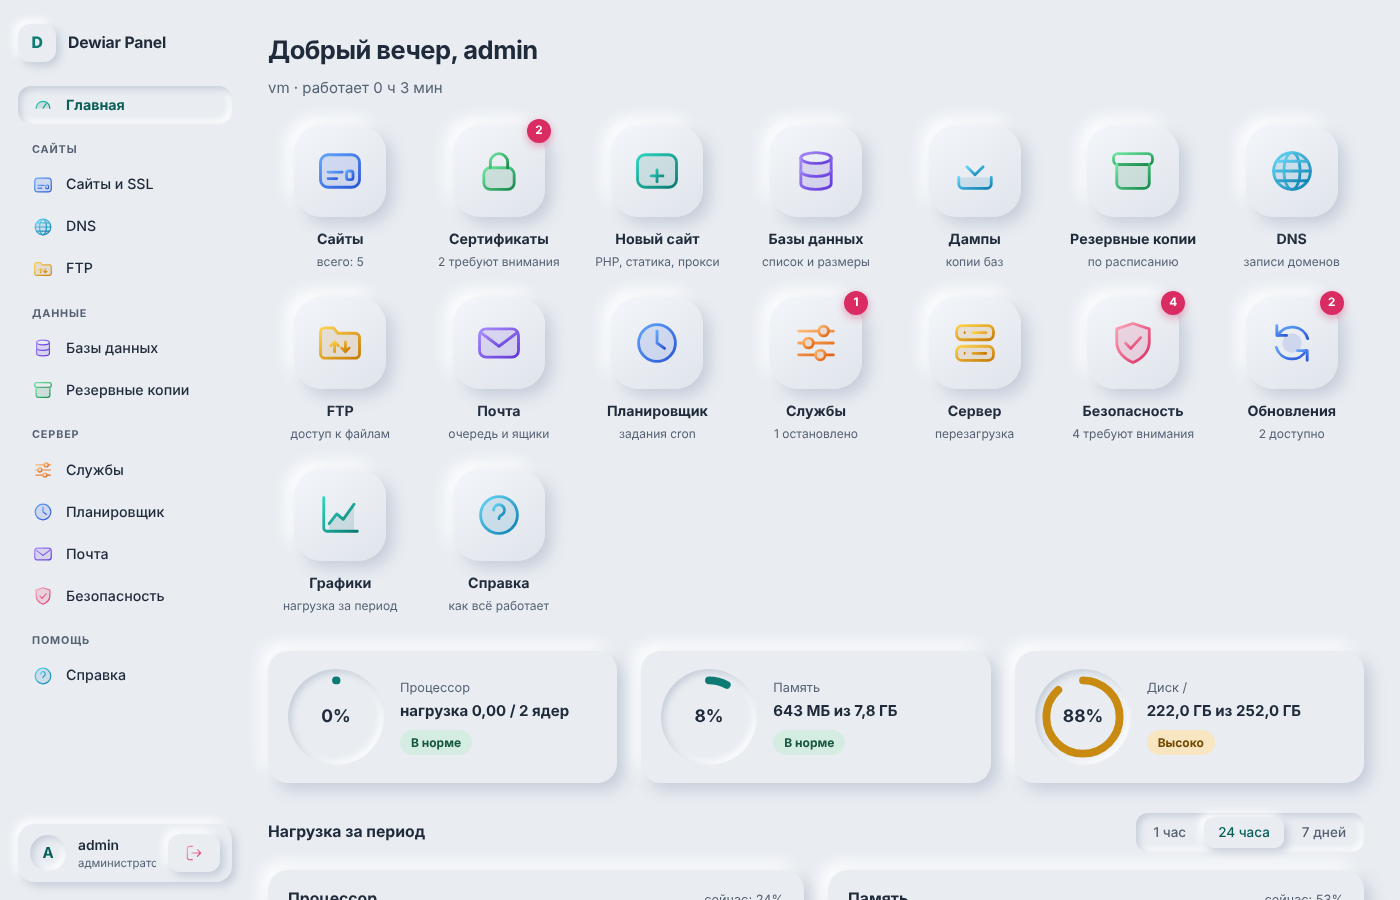
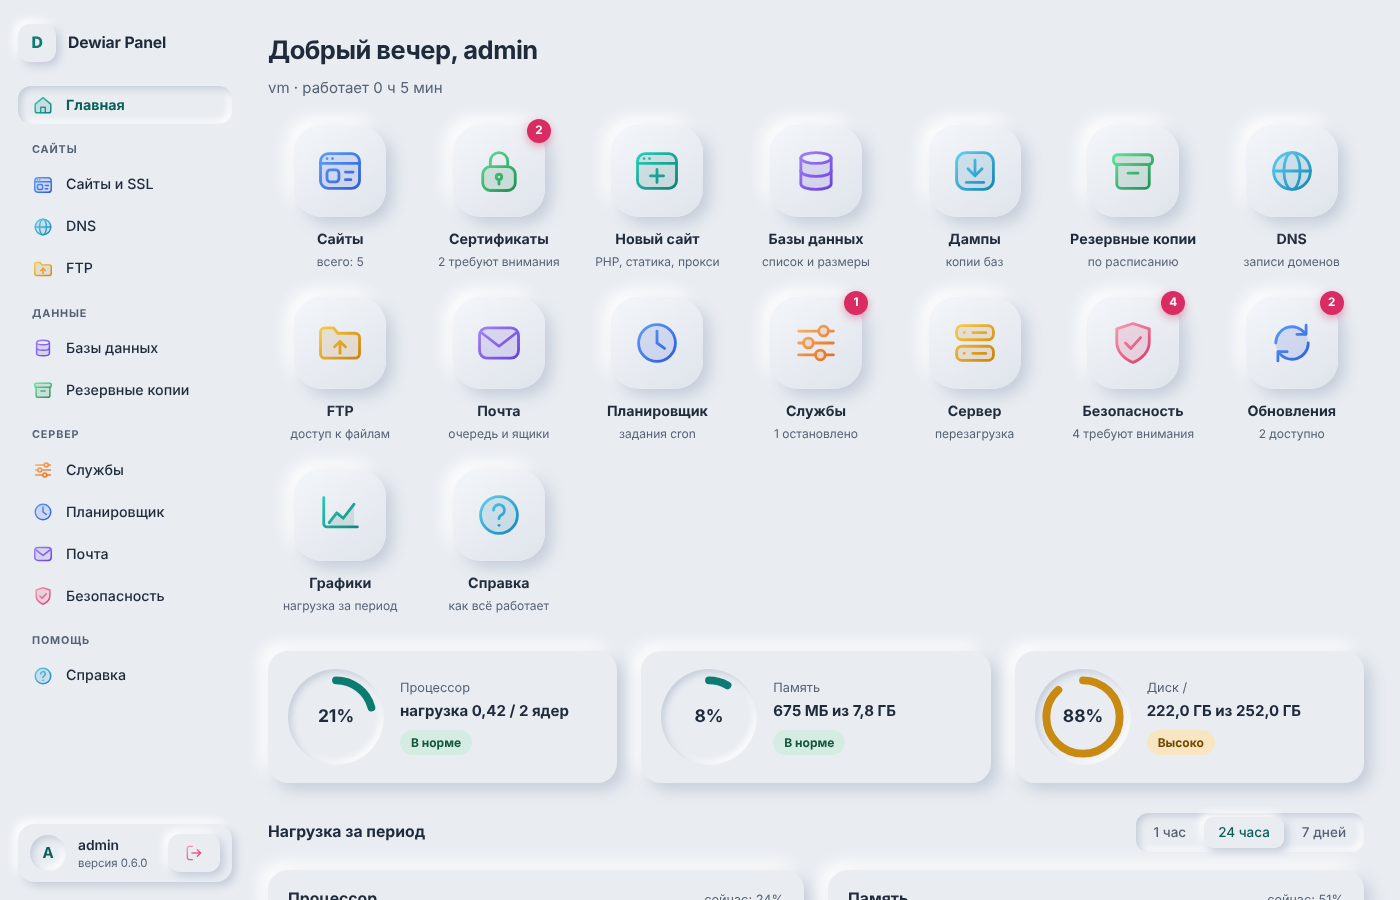
Иконки: перерисован набор, исправлена отрисовка прямых линий
Градиент контура считался от размеров каждой линии, поэтому строго
горизонтальные и вертикальные штрихи не отображались и иконки
выглядели незавершёнными. Градиент переведён в координаты иконки.

Claude-Session: https://claude.ai/code/session_01ApnMYWMBPuBUjCWb2Eobmj

diff --git a/app/lib/icons.php b/app/lib/icons.php
@@ -6,24 +6,25 @@ declare(strict_types=1);
  * Каждая иконка: [заливка-подложка, контур]. Контур рисуется градиентом оттенка, подложка — тем же оттенком с прозрачностью.
  */
 const ICONS = [
-    'gauge' => ['<path d="M9 31a15 15 0 1 1 30 0z"/>', '<path d="M9 31a15 15 0 1 1 30 0"/><path d="M24 31l7-10"/><path d="M6 37h36"/>'],
-    'sites' => ['<rect x="6" y="9" width="36" height="30" rx="7"/>', '<rect x="6" y="9" width="36" height="30" rx="7"/><path d="M6 18h36"/><path d="M13 25h13M13 31h8"/><rect x="30" y="24" width="6" height="8" rx="2"/>'],
-    'newsite' => ['<rect x="6" y="9" width="36" height="30" rx="7"/>', '<rect x="6" y="9" width="36" height="30" rx="7"/><path d="M6 18h36"/><path d="M24 23v11M18.5 28.5h11"/>'],
+    'home' => ['<path d="M7 22L24 8l17 14v15a4 4 0 0 1-4 4H11a4 4 0 0 1-4-4z"/>', '<path d="M7 22L24 8l17 14v15a4 4 0 0 1-4 4H11a4 4 0 0 1-4-4z"/><path d="M19 41V29h10v12"/>'],
+    'gauge' => ['<circle cx="24" cy="26" r="16"/>', '<path d="M12.7 37.300a16 16 0 1 1 22.600 0"/><path d="M24 26l7-8"/><path d="M24 26h.1"/>'],
+    'sites' => ['<rect x="6" y="8" width="36" height="32" rx="7"/>', '<rect x="6" y="8" width="36" height="32" rx="7"/><path d="M6 17h36"/><path d="M12 12.500h.1M17 12.500h.1"/><rect x="12" y="23" width="11" height="11" rx="3"/><path d="M29 25h7M29 32h5"/>'],
+    'newsite' => ['<rect x="6" y="8" width="36" height="32" rx="7"/>', '<rect x="6" y="8" width="36" height="32" rx="7"/><path d="M6 17h36"/><path d="M12 12.500h.1M17 12.500h.1"/><path d="M24 22.500v12M18 28.500h12"/>'],
     'shield' => ['<path d="M24 6l15 5v12c0 9-7 16-15 19-8-3-15-10-15-19V11z"/>', '<path d="M24 6l15 5v12c0 9-7 16-15 19-8-3-15-10-15-19V11z"/><path d="M17 24l5 5 9-10"/>'],
-    'lock' => ['<rect x="10" y="21" width="28" height="20" rx="6"/>', '<rect x="10" y="21" width="28" height="20" rx="6"/><path d="M16 21v-5a8 8 0 0 1 16 0v5"/><path d="M24 29v5"/>'],
-    'db' => ['<path d="M10 12v24c0 2.8 6.3 5 14 5s14-2.2 14-5V12c0 2.8-6.3 5-14 5s-14-2.2-14-5z"/>', '<ellipse cx="24" cy="12" rx="14" ry="5"/><path d="M10 12v24c0 2.8 6.3 5 14 5s14-2.2 14-5V12"/><path d="M10 24c0 2.8 6.3 5 14 5s14-2.2 14-5"/>'],
-    'dump' => ['<path d="M9 30v6a4 4 0 0 0 4 4h22a4 4 0 0 0 4-4v-6z"/>', '<path d="M24 8v19"/><path d="M16.5 20l7.5 7.5 7.5-7.5"/><path d="M9 30v6a4 4 0 0 0 4 4h22a4 4 0 0 0 4-4v-6"/>'],
-    'services' => ['<circle cx="31" cy="13" r="4.5"/><circle cx="17" cy="24" r="4.5"/><circle cx="28" cy="35" r="4.5"/>', '<path d="M8 13h18.5M35.5 13H40M8 24h4.5M21.5 24H40M8 35h15.5M32.5 35H40"/><circle cx="31" cy="13" r="4.5"/><circle cx="17" cy="24" r="4.5"/><circle cx="28" cy="35" r="4.5"/>'],
-    'server' => ['<rect x="7" y="8" width="34" height="13" rx="5"/><rect x="7" y="27" width="34" height="13" rx="5"/>', '<rect x="7" y="8" width="34" height="13" rx="5"/><rect x="7" y="27" width="34" height="13" rx="5"/><path d="M14 14.5h.1M14 33.5h.1"/><path d="M22 14.5h12M22 33.5h12"/>'],
-    'chart' => ['<path d="M14 32l7-9 6 5 10-14v24H14z"/>', '<path d="M9 8v28a3 3 0 0 0 3 3h28"/><path d="M14 32l7-9 6 5 10-14"/>'],
-    'update' => ['<circle cx="24" cy="24" r="9"/>', '<path d="M38.5 20A15 15 0 0 0 11 17"/><path d="M10 8v9h9"/><path d="M9.5 28A15 15 0 0 0 37 31"/><path d="M38 40v-9h-9"/>'],
-    'backup' => ['<rect x="8" y="18" width="32" height="22" rx="5"/>', '<rect x="6" y="8" width="36" height="10" rx="4"/><path d="M9 18v17a5 5 0 0 0 5 5h20a5 5 0 0 0 5-5V18"/><path d="M19 27h10"/>'],
+    'lock' => ['<rect x="9" y="20" width="30" height="22" rx="7"/>', '<rect x="9" y="20" width="30" height="22" rx="7"/><path d="M16 20v-5a8 8 0 0 1 16 0v5"/><circle cx="24" cy="29.500" r="2.500"/><path d="M24 32v4"/>'],
+    'db' => ['<path d="M10 12v24c0 2.800 6.300 5 14 5s14-2.200 14-5V12c0 2.800-6.300 5-14 5s-14-2.200-14-5z"/>', '<ellipse cx="24" cy="12" rx="14" ry="5"/><path d="M10 12v24c0 2.800 6.300 5 14 5s14-2.200 14-5V12"/><path d="M10 24c0 2.800 6.300 5 14 5s14-2.200 14-5"/>'],
+    'dump' => ['<rect x="7" y="7" width="34" height="34" rx="9"/>', '<rect x="7" y="7" width="34" height="34" rx="9"/><path d="M24 14v14"/><path d="M17.500 22l6.500 6.500 6.500-6.500"/><path d="M16 34.500h16"/>'],
+    'backup' => ['<rect x="6" y="9" width="36" height="9" rx="3.500"/><path d="M9 18h30v18a4 4 0 0 1-4 4H13a4 4 0 0 1-4-4z"/>', '<rect x="6" y="9" width="36" height="9" rx="3.500"/><path d="M9 18v18a4 4 0 0 0 4 4h22a4 4 0 0 0 4-4V18"/><path d="M19.500 26h9"/>'],
+    'services' => ['<circle cx="31" cy="13" r="4.500"/><circle cx="17" cy="24" r="4.500"/><circle cx="28" cy="35" r="4.500"/>', '<path d="M8 13h18.500M35.500 13H40M8 24h4.500M21.500 24H40M8 35h15.500M32.500 35H40"/><circle cx="31" cy="13" r="4.500"/><circle cx="17" cy="24" r="4.500"/><circle cx="28" cy="35" r="4.500"/>'],
+    'server' => ['<rect x="7" y="8" width="34" height="13" rx="5"/><rect x="7" y="27" width="34" height="13" rx="5"/>', '<rect x="7" y="8" width="34" height="13" rx="5"/><rect x="7" y="27" width="34" height="13" rx="5"/><path d="M14 14.500h.1M14 33.500h.1"/><path d="M22 14.500h12M22 33.500h12"/>'],
+    'chart' => ['<path d="M14 31l7-9 6 5 10-13v21H14z"/>', '<path d="M9 8v24a3 3 0 0 0 3 3h28"/><path d="M14 31l7-9 6 5 10-13"/>'],
+    'update' => ['<circle cx="24" cy="24" r="15"/>', '<path d="M39 24a15 15 0 0 1-27.500 8.300"/><path d="M9 24a15 15 0 0 1 27.500-8.300"/><path d="M37 7.500v8.500h-8.500"/><path d="M11 40.500V32h8.500"/>'],
     'cron' => ['<circle cx="24" cy="24" r="17"/>', '<circle cx="24" cy="24" r="17"/><path d="M24 13v11l7 5"/>'],
-    'ftp' => ['<path d="M6 14a4 4 0 0 1 4-4h8l4 5h16a4 4 0 0 1 4 4v15a4 4 0 0 1-4 4H10a4 4 0 0 1-4-4z"/>', '<path d="M6 14a4 4 0 0 1 4-4h8l4 5h16a4 4 0 0 1 4 4v15a4 4 0 0 1-4 4H10a4 4 0 0 1-4-4z"/><path d="M19 32v-9M15.5 26.5L19 23l3.5 3.5M29 23v9M25.500 28.500L29 32l3.500-3.500"/>'],
-    'mail' => ['<rect x="6" y="11" width="36" height="26" rx="6"/>', '<rect x="6" y="11" width="36" height="26" rx="6"/><path d="M8 15l16 12 16-12"/>'],
-    'dns' => ['<circle cx="24" cy="24" r="17"/>', '<circle cx="24" cy="24" r="17"/><ellipse cx="24" cy="24" rx="7.5" ry="17"/><path d="M7 24h34M10 15h28M10 33h28"/>'],
+    'ftp' => ['<path d="M6 14a4 4 0 0 1 4-4h8l4 5h16a4 4 0 0 1 4 4v15a4 4 0 0 1-4 4H10a4 4 0 0 1-4-4z"/>', '<path d="M6 14a4 4 0 0 1 4-4h8l4 5h16a4 4 0 0 1 4 4v15a4 4 0 0 1-4 4H10a4 4 0 0 1-4-4z"/><path d="M24 33.500V22.500"/><path d="M19 27.500l5-5 5 5"/>'],
+    'mail' => ['<rect x="6" y="10" width="36" height="28" rx="7"/>', '<rect x="6" y="10" width="36" height="28" rx="7"/><path d="M8.500 15l15.500 12 15.500-12"/>'],
+    'dns' => ['<circle cx="24" cy="24" r="17"/>', '<circle cx="24" cy="24" r="17"/><ellipse cx="24" cy="24" rx="7.500" ry="17"/><path d="M7 24h34"/>'],
     'exit' => ['', '<path d="M20 8h-7a5 5 0 0 0-5 5v22a5 5 0 0 0 5 5h7"/><path d="M19 24h21M32 16l8 8-8 8"/>'],
-    'help' => ['<circle cx="24" cy="24" r="17"/>', '<circle cx="24" cy="24" r="17"/><path d="M19 19.5a5 5 0 1 1 7.3 4.4c-1.6.9-2.3 1.9-2.3 3.6"/><path d="M24 33.5h.1"/>'],
+    'help' => ['<circle cx="24" cy="24" r="17"/>', '<circle cx="24" cy="24" r="17"/><path d="M19 19.500a5 5 0 1 1 7.300 4.400c-1.600.900-2.300 1.900-2.300 3.600"/><path d="M24 33.500h.1"/>'],
 ];
 
 const ICON_HUES = [
@@ -37,7 +38,7 @@ function icon_defs(): string
 {
     $h = '<svg width="0" height="0" style="position:absolute" aria-hidden="true"><defs>';
     foreach (ICON_HUES as $k => $c) {
-        $h .= '<linearGradient id="ig-' . $k . '" x1="0" y1="0" x2="1" y2="1"><stop offset="0" stop-color="' . $c[0] . '"/><stop offset="1" stop-color="' . $c[1] . '"/></linearGradient>';
+        $h .= '<linearGradient id="ig-' . $k . '" gradientUnits="userSpaceOnUse" x1="4" y1="4" x2="44" y2="44"><stop offset="0" stop-color="' . $c[0] . '"/><stop offset="1" stop-color="' . $c[1] . '"/></linearGradient>';
     }
     return $h . '</defs></svg>';
 }
@@ -48,5 +49,5 @@ function icon(string $name, string $hue = 'teal', int $size = 44): string
     $c = ICON_HUES[$hue] ?? ICON_HUES['teal'];
     return '<svg class="ico" width="' . $size . '" height="' . $size . '" viewBox="0 0 48 48" aria-hidden="true">'
         . '<g fill="' . $c[1] . '" fill-opacity="0.14" stroke="none">' . $i[0] . '</g>'
-        . '<g fill="none" stroke="url(#ig-' . $hue . ')" stroke-width="2.6" stroke-linecap="round" stroke-linejoin="round">' . $i[1] . '</g></svg>';
+        . '<g fill="none" stroke="url(#ig-' . $hue . ')" stroke-width="' . ($size < 30 ? '3.2' : '2.6') . '" stroke-linecap="round" stroke-linejoin="round">' . $i[1] . '</g></svg>';
 }

diff --git a/app/public/index.php b/app/public/index.php
@@ -167,7 +167,7 @@ function render_login(?string $error): void
 function layout(string $title, string $active, string $body, string $intro = ''): void
 {
     $groups = [
-        '' => ['overview' => ['Главная', 'gauge', 'teal']],
+        '' => ['overview' => ['Главная', 'home', 'teal']],
         'Сайты' => ['domains' => ['Сайты и SSL', 'sites', 'blue'], 'dns' => ['DNS', 'dns', 'sky'], 'ftp' => ['FTP', 'ftp', 'amber']],
         'Данные' => ['databases' => ['Базы данных', 'db', 'violet'], 'backups' => ['Резервные копии', 'backup', 'green']],
         'Сервер' => ['services' => ['Службы', 'services', 'orange'], 'cron' => ['Планировщик', 'cron', 'blue'], 'mail' => ['Почта', 'mail', 'violet'], 'security' => ['Безопасность', 'shield', 'rose']],
